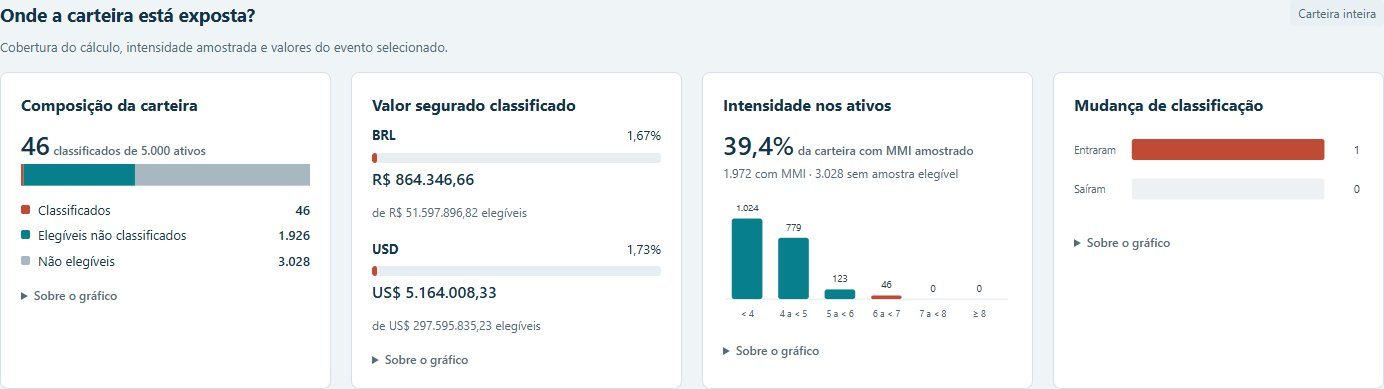
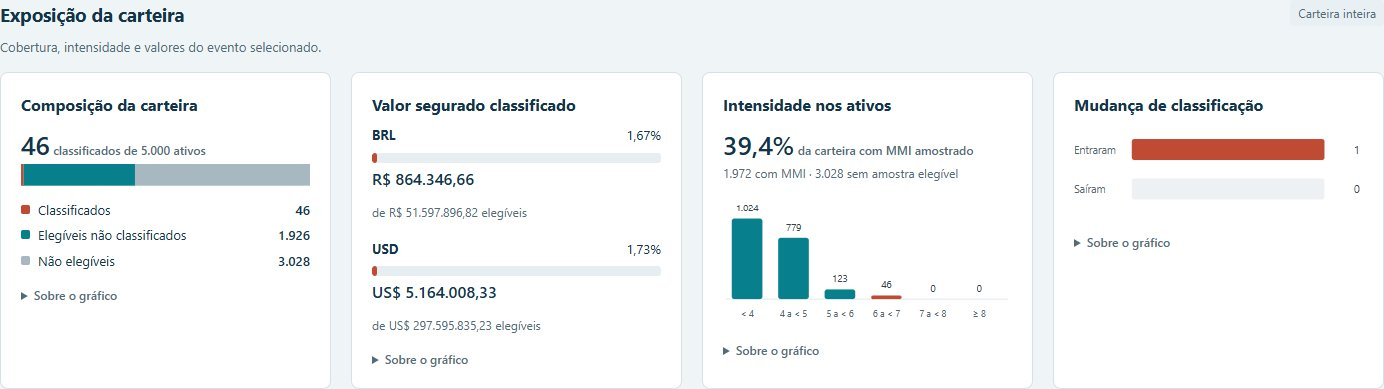
Esclarece período vazio e atalhos da exposição

Changed region(s): [[0.0311, 0.0925, 0.3107, 0.1542], [0.0, 0.0308, 0.1864, 0.0617]]

diff --git a/web/index.html b/web/index.html
@@ -35,7 +35,7 @@
       </label>
       </div>
       <div class="event-period" role="group" aria-label="Período dos terremotos">
-        <div><span class="period-title">Quando ocorreu o terremoto?</span><p id="event-period-note" aria-live="polite">Datas dos eventos em UTC.</p></div>
+        <div><span class="period-title">Período dos eventos</span><p id="event-period-note" aria-live="polite">Datas em UTC.</p></div>
         <label for="event-from">De <input id="event-from" type="date" aria-describedby="event-period-note" /></label>
         <label for="event-to">Até <input id="event-to" type="date" aria-describedby="event-period-note" /></label>
         <div class="period-presets"><button type="button" data-event-days="0">Todo o catálogo</button><button type="button" data-event-days="7">7 dias</button><button type="button" data-event-days="30">30 dias</button></div>
@@ -66,7 +66,7 @@
       </div>
       <section id="area-summary" class="area-summary" aria-label="Resultado da área selecionada" hidden></section>
       <section id="comparison" class="comparison-panel" tabindex="-1" aria-label="Comparação entre publicações" hidden></section>
-      <section id="charts-section" class="chart-section" aria-label="Gráficos de exposição"><div class="section-heading"><div><h2>Onde a carteira está exposta?</h2><p class="muted">Cobertura do cálculo, intensidade amostrada e valores do evento selecionado.</p></div><span class="section-scope">Carteira inteira</span></div><div id="charts"></div></section>
+      <section id="charts-section" class="chart-section" aria-label="Gráficos de exposição"><div class="section-heading"><div><h2>Exposição da carteira</h2><p class="muted">Cobertura, intensidade e valores do evento selecionado.</p></div><span class="section-scope">Carteira inteira</span></div><div id="charts"></div></section>
       <div class="details-grid">
         <section id="assets"></section>
         <aside class="context-panels">

diff --git a/web/src/main.ts b/web/src/main.ts
@@ -336,11 +336,16 @@ function renderEventOptions(): void {
   eventTo.setAttribute("aria-invalid", String(invalid));
   el("event-period-note").textContent = invalid
     ? "A data inicial deve vir antes da final. Ajuste o período."
-    : `${events.length} de ${state.events.length} eventos no catálogo. Datas em UTC; o período filtra eventos, sem somar exposições entre terremotos.`;
+    : `${events.length} de ${state.events.length} eventos · UTC`;
   const latest = recentEventPeriod(state.events, 1).to;
   el("event-period-reference").textContent = latest
-    ? `Atalhos de 7 e 30 dias terminam em ${latest.split("-").reverse().join("/")} (UTC), data do evento mais recente do catálogo.`
+    ? `Referência dos atalhos: ${latest.split("-").reverse().join("/")} (último evento)`
     : "Sem eventos para definir a referência dos atalhos.";
+  document.querySelectorAll<HTMLButtonElement>("[data-event-days]").forEach(button => {
+    const days = Number(button.dataset.eventDays);
+    const period = days ? recentEventPeriod(state.events, days) : { from: "", to: "" };
+    button.setAttribute("aria-pressed", String(period.from === eventFrom.value && period.to === eventTo.value));
+  });
 }
 
 function drawEvents(): void {
@@ -477,6 +482,9 @@ function paint(pub: CurrentPublication | null, view: View | null, message = ""):
     areaSummary.innerHTML = "";
     clearAreaButton.hidden = true;
     retryRegion.hidden = true;
+    el("analysis-announcement").textContent = !visibleEvents().length
+      ? "Nenhum evento no período selecionado. Exposição indisponível."
+      : message;
     setActionLabel(fitButton, "Carteira", "Ver carteira no mapa");
     setActionLabel(drawAreaButton, "Área", "Selecionar área");
   }

diff --git a/web/src/style.css b/web/src/style.css
@@ -68,6 +68,7 @@ section:empty { display: none; }
 .event-period input[aria-invalid="true"] { border-color: var(--qualifying); }
 .period-presets { display: flex; flex-wrap: wrap; gap: 6px; }
 .period-presets button { min-height: 44px; font-size: 12px; }
+.period-presets button[aria-pressed="true"] { background: var(--ink); color: white; border-color: var(--ink); }
 main { max-width: 1780px; padding: 14px 28px 32px; margin: auto; }
 .context-note { display: flex; align-items: center; gap: 10px; color: var(--muted); font-size: 12px; margin-bottom: 14px; }
 .context-note .badge { margin-left: 0; }

diff --git a/docs/results/product-analysis-20261017.md b/docs/results/product-analysis-20261017.md
@@ -8,6 +8,8 @@ De e Até incluem o dia inteiro em UTC. É possível informar só uma das datas.
 
 Um recorte vazio remove a seleção e os gráficos de exposição. Datas invertidas apresentam uma orientação para corrigir o intervalo. O endereço conserva `from` e `to`, junto dos filtros existentes. Mudar o período também recorta os terremotos no mapa, sem recalcular nem somar publicações.
 
+A revisão no navegador também cobriu o anúncio acessível do período vazio: ele informa exposição indisponível. O destaque dos atalhos acompanha as datas atuais e desaparece quando o intervalo manual não corresponde a nenhum deles.
+
 ## Como ler a cobertura
 
 O gráfico de intensidade destaca a fração de ativos com MMI amostrado. No evento `us7000tiur`, a Operadora B tem 1.972 de 5.000 ativos com amostra elegível (39,4%). Os 3.028 restantes ficam separados; ausência de amostra não significa intensidade zero. Os 46 classificados pertencem a essa mesma publicação, com valores em BRL e USD separados.
